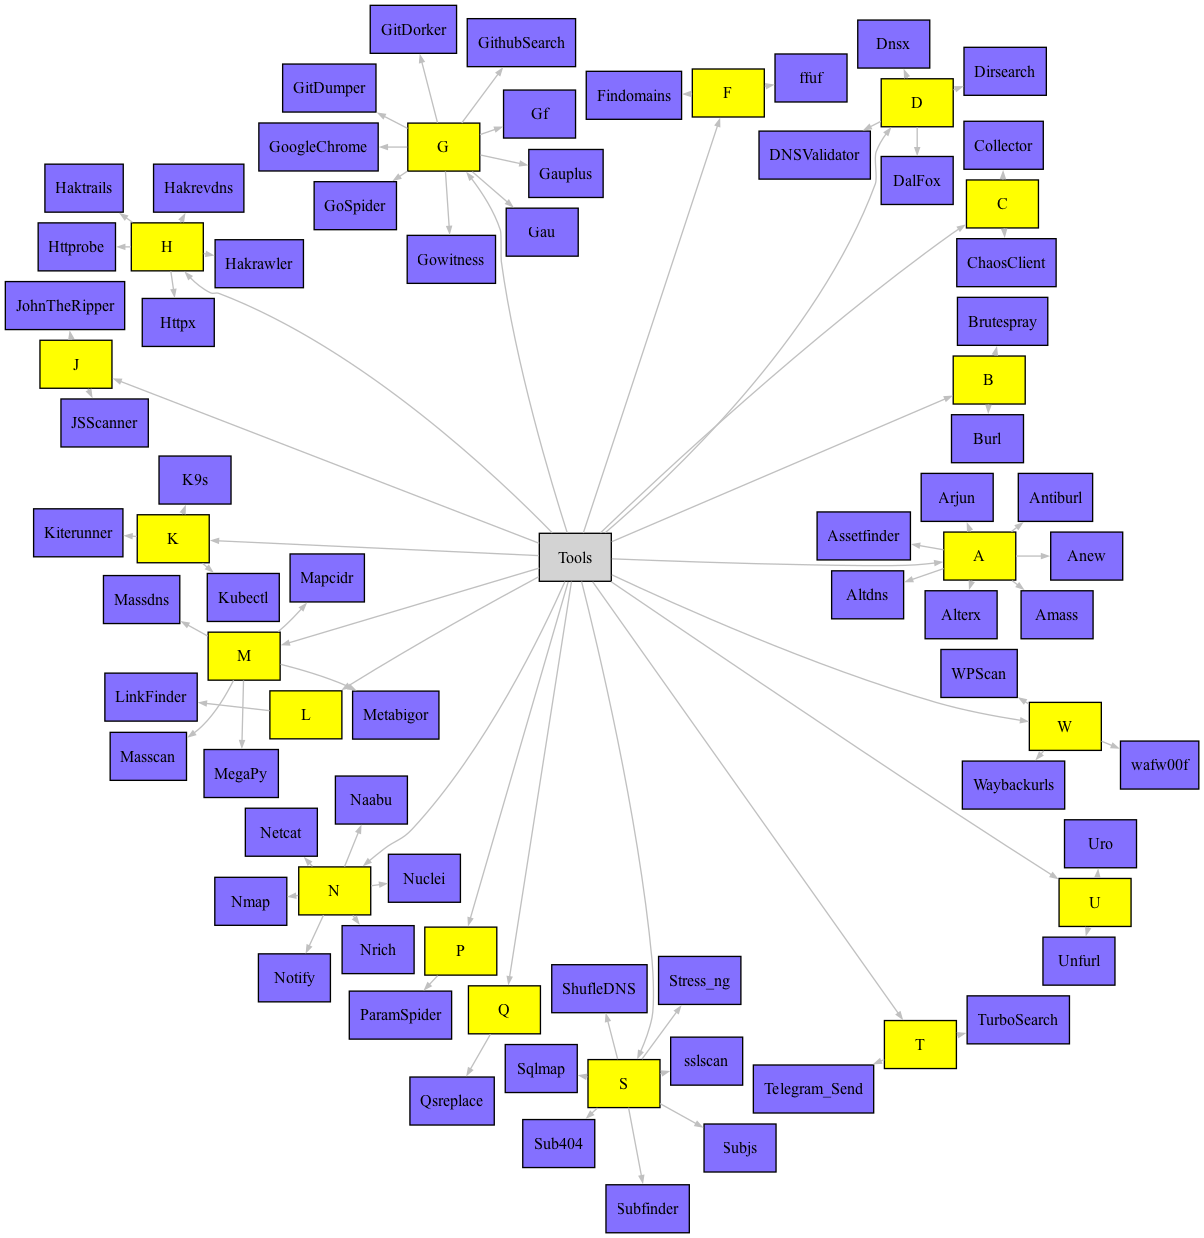
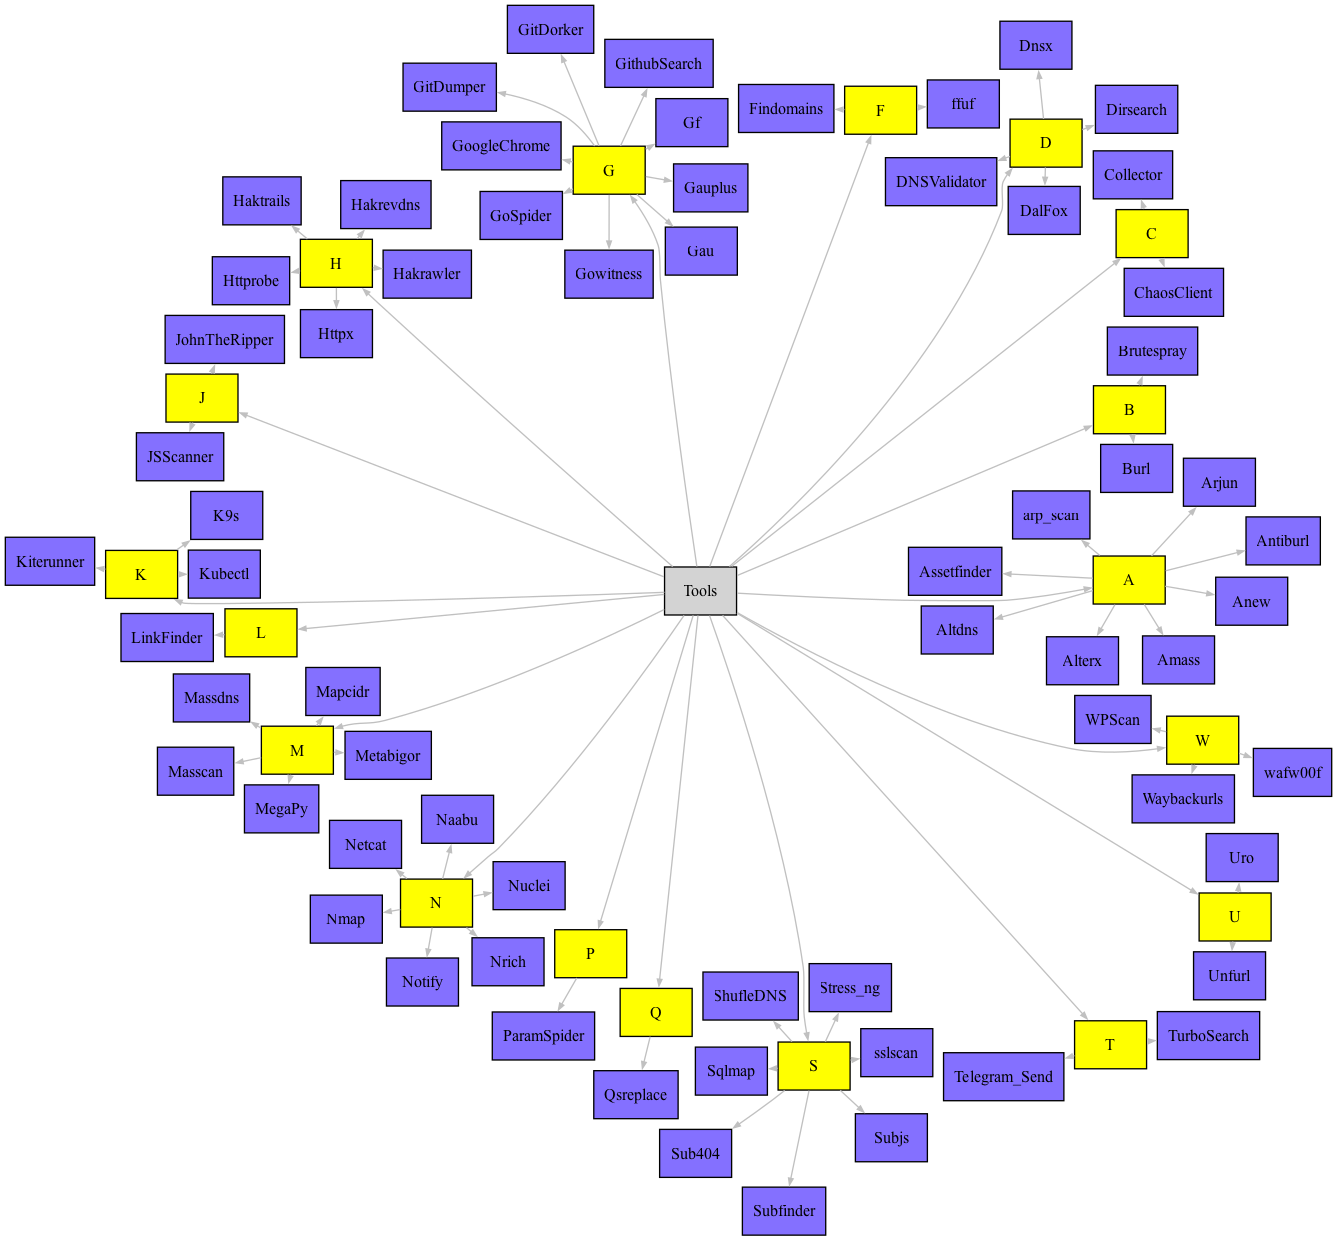
arp-scan

diff --git a/assets/tools_list.md b/assets/tools_list.md
@@ -1,66 +1,67 @@
-| #   | Tool          |
-| --- | ------------- |
-| 1.  | Altdns        |
-| 2.  | Alterx        |
-| 3.  | Amass         |
-| 4.  | Anew          |
-| 5.  | Antiburl      |
-| 6.  | Arjun         |
-| 7.  | Assetfinder   |
-| 8.  | Burl          |
-| 9.  | Brutespray    |
-| 10. | ChaosClient   |
-| 11. | Collector     |
-| 12. | DalFox        |
-| 13. | Dirsearch     |
-| 14. | Dnsx          |
-| 15. | DNSValidator  |
-| 16. | ffuf          |
-| 17. | Findomains    |
-| 18. | Gau           |
-| 19. | Gauplus       |
-| 20. | Gf            |
-| 21. | GithubSearch  |
-| 22. | GitDorker     |
-| 23. | GitDumper     |
-| 24. | GoogleChrome  |
-| 25. | GoSpider      |
-| 26. | Gowitness     |
-| 27. | Hakrawler     |
-| 28. | Hakrevdns     |
-| 29. | Haktrails     |
-| 30. | Httprobe      |
-| 31. | Httpx         |
-| 32. | JohnTheRipper |
-| 33. | JSScanner     |
-| 34. | K9s           |
-| 35. | Kiterunner    |
-| 36. | Kubectl       |
-| 37. | LinkFinder    |
-| 38. | Mapcidr       |
-| 39. | Massdns       |
-| 40. | Masscan       |
-| 41. | MegaPy        |
-| 42. | Metabigor     |
-| 43. | Naabu         |
-| 44. | Netcat        |
-| 45. | Nmap          |
-| 46. | Notify        |
-| 47. | Nrich         |
-| 48. | Nuclei        |
-| 49. | ParamSpider   |
-| 50. | Qsreplace     |
-| 51. | ShufleDNS     |
-| 52. | Sqlmap        |
-| 53. | Sub404        |
-| 54. | Subfinder     |
-| 55. | Subjs         |
-| 56. | sslscan       |
-| 57. | Stress_ng     |
-| 58. | Telegram_Send |
-| 59. | TurboSearch   |
-| 60. | Unfurl        |
-| 61. | Uro           |
-| 62. | Waybackurls   |
-| 63. | wafw00f       |
-| 64. | WPScan        |
+|  #  | Tool |
+|-----|---------|
+|  1. | Altdns  |
+|  2. | Alterx  |
+|  3. | Amass  |
+|  4. | Anew  |
+|  5. | Antiburl  |
+|  6. | Arjun  |
+|  7. | arp_scan  |
+|  8. | Assetfinder  |
+|  9. | Burl  |
+|  10. | Brutespray  |
+|  11. | ChaosClient  |
+|  12. | Collector  |
+|  13. | DalFox  |
+|  14. | Dirsearch  |
+|  15. | Dnsx  |
+|  16. | DNSValidator  |
+|  17. | ffuf  |
+|  18. | Findomains  |
+|  19. | Gau  |
+|  20. | Gauplus  |
+|  21. | Gf  |
+|  22. | GithubSearch  |
+|  23. | GitDorker  |
+|  24. | GitDumper  |
+|  25. | GoogleChrome  |
+|  26. | GoSpider  |
+|  27. | Gowitness  |
+|  28. | Hakrawler  |
+|  29. | Hakrevdns  |
+|  30. | Haktrails  |
+|  31. | Httprobe  |
+|  32. | Httpx  |
+|  33. | JohnTheRipper  |
+|  34. | JSScanner  |
+|  35. | K9s  |
+|  36. | Kiterunner  |
+|  37. | Kubectl  |
+|  38. | LinkFinder  |
+|  39. | Mapcidr  |
+|  40. | Massdns  |
+|  41. | Masscan  |
+|  42. | MegaPy  |
+|  43. | Metabigor  |
+|  44. | Naabu  |
+|  45. | Netcat  |
+|  46. | Nmap  |
+|  47. | Notify  |
+|  48. | Nrich  |
+|  49. | Nuclei  |
+|  50. | ParamSpider  |
+|  51. | Qsreplace  |
+|  52. | ShufleDNS  |
+|  53. | Sqlmap  |
+|  54. | Sub404  |
+|  55. | Subfinder  |
+|  56. | Subjs  |
+|  57. | sslscan  |
+|  58. | Stress_ng  |
+|  59. | Telegram_Send  |
+|  60. | TurboSearch  |
+|  61. | Unfurl  |
+|  62. | Uro  |
+|  63. | Waybackurls  |
+|  64. | wafw00f  |
+|  65. | WPScan  |
